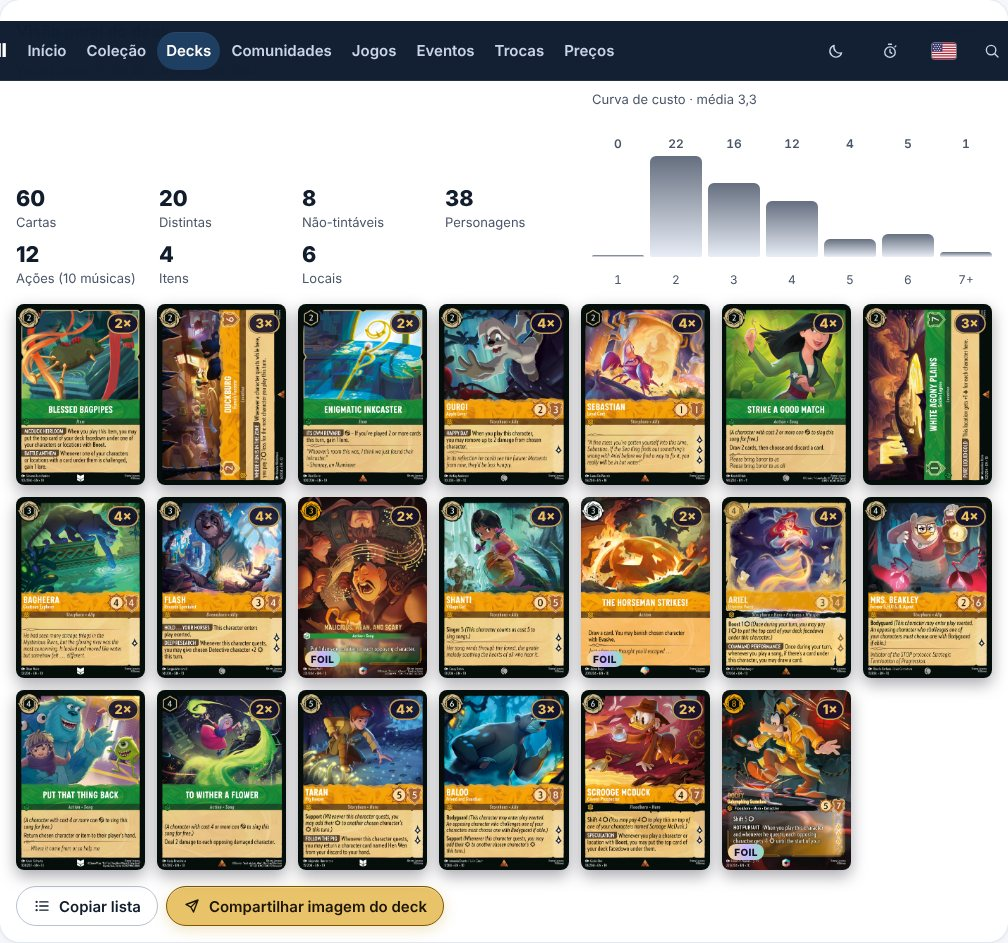
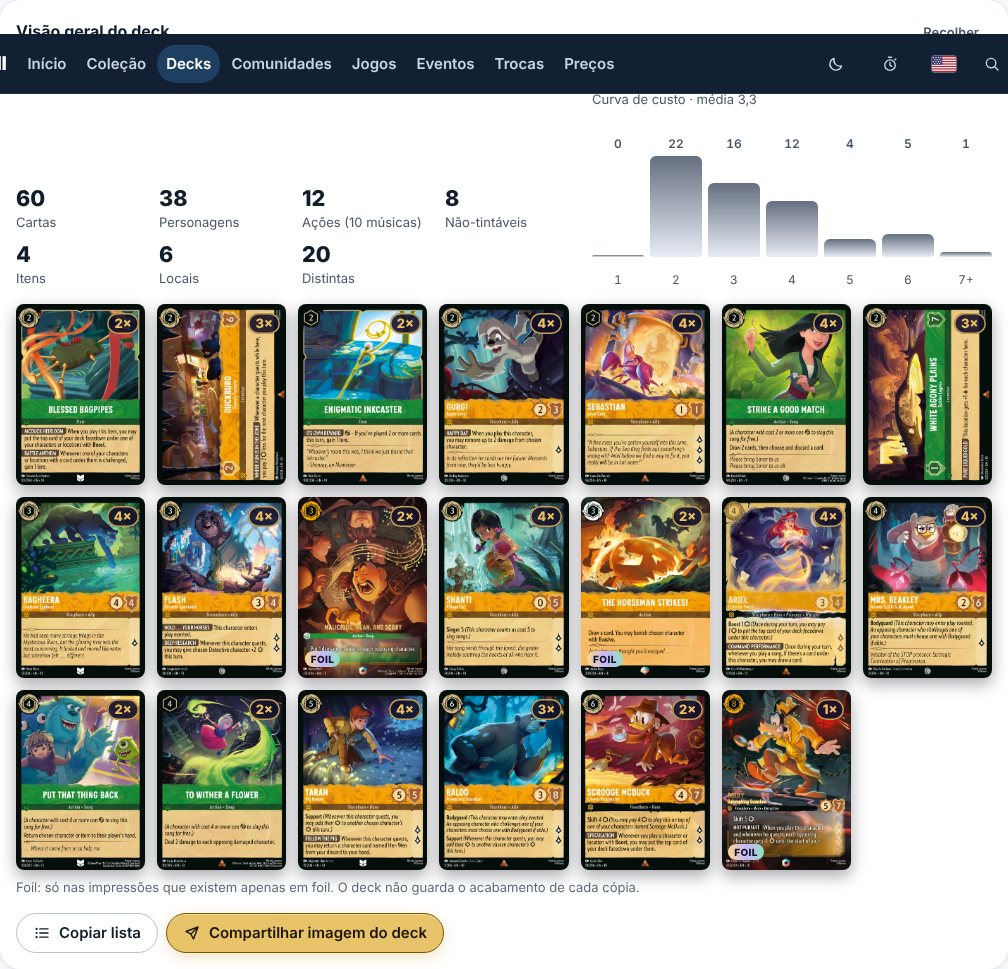
Visão geral: sem QR para o deck em destaque, cabeçalho compacto no celular, legenda do foil, divisão das imagens testada
- QR só para decks públicos listados (#deck-<id>); deck em destaque: sem QR, com o motivo (o perfil não tem endereço estável para ele); perfil sem âncora #deck-featured
- Celular: números em linhas curtas, os mais importantes primeiro; curva mais baixa; frase do dono numa linha
- Legenda do foil: só impressões que existem apenas em foil; o deck não guarda o acabamento
- Testes: divisão das imagens (todas as cartas, uma vez, equilibradas), barras fixas reais e fim da seção acima da barra de abas, tempo e memória (laboratório)
- Evidências: capturas da tela real do celular, todas as imagens de um deck grande, perfil com o deck destacado

Claude-Session: https://claude.ai/code/session_01ViNXWokZDypTVzRR5Y3foT

diff --git a/site/decks/index.html b/site/decks/index.html
@@ -362,8 +362,18 @@ textarea.paste { width: 100%; min-height: 200px; font: inherit; font-size: var(-
 .ov-page figcaption { display: flex; gap: var(--sp-2); flex-wrap: wrap; justify-content: center; }
 .ov-fmt button { flex: 1 1 0; min-width: 0; white-space: normal; line-height: 1.25; height: auto; min-height: 44px; padding-top: 6px; padding-bottom: 6px; }
 .ov-fmt small { display: block; opacity: .7; font-weight: 500; }
-@media (max-width: 760px) { .ov-head { grid-template-columns: 1fr; } }
-@media (max-width: 420px) { .ov-stats { grid-template-columns: repeat(2, minmax(0, 1fr)); } .ov-grid { grid-template-columns: repeat(3, minmax(0, 1fr)); gap: var(--sp-2); } .ov-card .ov-q { font-size: 11px; padding: 0 5px; } .ov-actions .btn { flex: 1 1 100%; } }
+.ov-note { margin: var(--sp-2) 0 0; }
+@media (max-width: 760px) { .ov-head { grid-template-columns: 1fr; gap: var(--sp-3); } }
+/* phone: the numbers as one wrapped line each ("60 Cartas"), most important first, and a lower curve */
+@media (max-width: 640px) {
+  .ov-stats { display: flex; flex-wrap: wrap; gap: 4px var(--sp-3); }
+  .ov-stat { display: inline-flex; align-items: baseline; gap: 5px; }
+  .ov-stat b { font-size: 1.05rem; }
+  .ov-curve .bars { height: 92px; padding-top: 14px; }
+  .ov-curve .bars-x { margin-top: 2px; }
+  .ov-own { margin-bottom: var(--sp-2); }
+}
+@media (max-width: 420px) { .ov-grid { grid-template-columns: repeat(3, minmax(0, 1fr)); gap: var(--sp-2); } .ov-card .ov-q { font-size: 11px; padding: 0 5px; } .ov-actions .btn { flex: 1 1 100%; } }
 </style>
 
 <main class="page" id="page">
@@ -451,13 +461,16 @@ const CARD_INDEX = {"generated_at":"2026-10-19T12:50:22Z","sets":[{"code":"D100"
     "{n} cards recognised": "{n} cartas reconhecidas", "Not recognised: {l}": "Não reconhecidas: {l}", "Import deck": "Importar deck", "Imported deck": "Deck importado",
     "Deck overview": "Visão geral do deck", "Hide": "Recolher", "Show": "Mostrar", "Distinct": "Distintas", "Non-inkable": "Não-tintáveis", "Actions ({n} songs)": "Ações ({n} músicas)", "Items": "Itens", "Locations": "Locais",
     "Cost curve · average {a}": "Curva de custo · média {a}", "See the whole deck (+{n})": "Ver deck completo (+{n})", "{n} cards outside the catalog are not shown.": "{n} cartas fora do catálogo não aparecem aqui.",
-    "Share deck image": "Compartilhar imagem do deck", "You own {a} of {b} cards of this deck.": "Você possui {a} de {b} cartas deste deck.", "Only you see this; it never goes in the image.": "Só você vê isto; nunca vai para a imagem.",
+    "Share deck image": "Compartilhar imagem do deck",
     "This printing exists only in foil": "Esta impressão só existe em foil", "foil": "foil", "Couldn't copy. Try again.": "Não deu para copiar. Tente de novo.", "Average cost": "Custo médio",
     "See this deck on the public Inkwell profile": "Veja este deck no perfil público do Inkwell", "Built on Inkwell": "Montado no Inkwell", "image {a} of {b}": "imagem {a} de {b}", "Image format": "Formato da imagem",
     "Vertical — Instagram": "Vertical — Instagram", "Horizontal — groups and Discord": "Horizontal — grupos e Discord", "Checking your public profile…": "Conferindo seu perfil público…", "Creating the image…": "Criando a imagem…",
     "The image shows only the deck: never your collection, prices or account.": "A imagem mostra só o deck: nunca sua coleção, preços ou conta.",
     "The QR code opens this deck on your public profile (@{h}).": "O QR code abre este deck no seu perfil público (@{h}).", "No QR code: your public profile could not be checked now.": "Sem QR code: não deu para conferir seu perfil público agora.",
-    "No QR code: this deck is not on your public profile. Make the profile public and the deck public (or featured) to add it.": "Sem QR code: este deck não aparece no seu perfil público. Para incluir, deixe o perfil público e o deck público (ou em destaque).",
+    "No QR code: this deck is not on your public profile. Make the profile public and the deck public to add it.": "Sem QR code: este deck não aparece no seu perfil público. Para incluir, deixe o perfil e o deck públicos.",
+    "No QR code for the featured deck yet: the profile has no address for it that stays right if the featured deck changes.": "Sem QR code para o deck em destaque, por enquanto: o perfil ainda não tem um endereço para ele que continue certo se o destaque mudar.",
+    "Foil: only on printings that exist only in foil. A deck does not record the finish of each copy.": "Foil: só nas impressões que existem apenas em foil. O deck não guarda o acabamento de cada cópia.",
+    "You own {a} of {b} cards of this deck · only you see this.": "Você possui {a} de {b} cartas deste deck · só você vê isto.",
     "The deck has many different cards: {n} images.": "O deck tem muitas cartas diferentes: {n} imagens.", "Image of the deck {d}": "Imagem do deck {d}", "Download": "Baixar", "Share": "Compartilhar", "Couldn't create the image. Try again.": "Não deu para criar a imagem. Tente de novo.",
     "Rename and format": "Nome, formato e tintas", "Copy list": "Copiar lista", "List copied": "Lista copiada", "Open in the deck builder": "Abrir no montador antigo",
     "Planner and advisor": "Consultor e plano de compras", "Delete deck": "Apagar deck", "Tap again to delete": "Toque de novo para apagar", "Deck deleted": "Deck apagado",
@@ -1024,7 +1037,8 @@ const CARD_INDEX = {"generated_at":"2026-10-19T12:50:22Z","sets":[{"code":"D100"
   // Everything here reads only the deck's list (m.known). "You own X of Y" is a line for the signed-in owner, on this
   // page only: the image is drawn from deckImageData(), which carries no collection data at all (nor who owns what).
   // The QR code goes to the deck on the owner's public profile, and only when that profile really shows this deck
-  // (public profile with an address, and the deck listed there or featured); never to a private deck or to an editor.
+  // (public profile with an address, and the deck in its list of public decks, by id); never to a private deck, to
+  // the featured deck (no stable address yet) or to an editor.
   const OV_KEY = "inkwell-deck-overview", OV_PREVIEW = 12, ovFull = new Set();
   const ovOpen = () => { try { return localStorage.getItem(OV_KEY) !== "closed"; } catch { return true; } };
   function deckSummary(m) {
@@ -1060,7 +1074,7 @@ const CARD_INDEX = {"generated_at":"2026-10-19T12:50:22Z","sets":[{"code":"D100"
     if (!me || !prof() || prof().shared) return "";
     const by = new Map(); for (const e of m.known) by.set(e.c.key, { c: e.c, q: (by.get(e.c.key)?.q || 0) + e.q });
     let have = 0, need = 0; for (const { c, q } of by.values()) { need += q; have += Math.min(q, ownedMine(c)); }
-    return `<p class="small ov-own" data-testid="ov-owned">${esc(Tx("You own {a} of {b} cards of this deck.", { a: have, b: need }))} <span class="faint">${esc(Tx("Only you see this; it never goes in the image."))}</span></p>`;
+    return `<p class="small ov-own" data-testid="ov-owned">${esc(Tx("You own {a} of {b} cards of this deck · only you see this.", { a: have, b: need }))}</p>`;
   }
   function overview(d, m) {
     if (!m.known.length) return "";
@@ -1073,14 +1087,15 @@ const CARD_INDEX = {"generated_at":"2026-10-19T12:50:22Z","sets":[{"code":"D100"
       <div id="ovBody"${open ? "" : " hidden"}>
         ${ownerLine(m)}
         <div class="ov-head">
-          <div class="ov-stats">${stat(s.total, Tx("Cards"), "total")}${stat(s.distinct, Tx("Distinct"), "distinct")}${stat(s.nonInk, Tx("Non-inkable"), "noink")}${stat(s.char, Tx("Characters"), "char")}
-            ${stat(s.action, s.song ? Tx("Actions ({n} songs)", { n: s.song }) : Tx("Actions"), "action")}${stat(s.item, Tx("Items"), "item")}${stat(s.location, Tx("Locations"), "location")}</div>
+          <div class="ov-stats">${stat(s.total, Tx("Cards"), "total")}${stat(s.char, Tx("Characters"), "char")}${stat(s.action, s.song ? Tx("Actions ({n} songs)", { n: s.song }) : Tx("Actions"), "action")}${stat(s.nonInk, Tx("Non-inkable"), "noink")}
+            ${stat(s.item, Tx("Items"), "item")}${stat(s.location, Tx("Locations"), "location")}${stat(s.distinct, Tx("Distinct"), "distinct")}</div>
           <figure class="ov-curve" data-testid="ov-curve"><figcaption class="small muted">${esc(Tx("Cost curve · average {a}", { a: s.avg.toLocaleString(LOC, { maximumFractionDigits: 1 }) }))}</figcaption>
             <div class="bars" style="--n:7">${s.curve.map((v) => `<div><b>${v}</b><i style="--v:${Math.round((v / top) * 100)}%"></i></div>`).join("")}</div>
             <div class="bars-x" style="--n:7">${[1, 2, 3, 4, 5, 6, "7+"].map((x) => `<span>${x}</span>`).join("")}</div></figure>
         </div>
         <div class="ov-grid" id="ovGrid" data-testid="ov-grid">${(compact ? rows.slice(0, OV_PREVIEW) : rows).map(ovTile).join("")}</div>
         ${compact ? `<button type="button" class="btn block" id="ovAll" data-testid="ov-all">${esc(Tx("See the whole deck (+{n})", { n: rows.length - OV_PREVIEW }))}</button>` : ""}
+        ${rows.some((e) => ALWAYS_FOIL.has(e.c.rarity)) ? `<p class="small faint ov-note" data-testid="ov-foil-note">${esc(Tx("Foil: only on printings that exist only in foil. A deck does not record the finish of each copy."))}</p>` : ""}
         ${unknown ? `<p class="small faint">${esc(Tx("{n} cards outside the catalog are not shown.", { n: unknown }))}</p>` : ""}
         <div class="ov-actions"><button type="button" class="btn" id="ovCopy" data-testid="ov-copy"><i class="ic i-list"></i>${Tx("Copy list")}</button>
           <button type="button" class="btn primary" id="ovImg" data-testid="ov-image-open"><i class="ic i-send"></i>${Tx("Share deck image")}</button></div>
@@ -1117,8 +1132,9 @@ const CARD_INDEX = {"generated_at":"2026-10-19T12:50:22Z","sets":[{"code":"D100"
       if (!pp?.handle) return { why: "private" };
       let anchor = null;
       if ((pp.public_decks || []).some((x) => x && x.id === d.id && sameCards(x.cards, d.cards))) anchor = "deck-" + d.id;
-      else if (mp.featured_deck === d.id && pp.deck && sameCards(pp.deck.cards, d.cards)) anchor = "deck-featured";
-      if (!anchor) return { why: "private" };
+      // the featured deck has no address of its own on the profile (a QR code to "the featured deck" would open
+      // another deck once the featured one changes): no QR code for it until decks have their own address
+      if (!anchor) return { why: mp.featured_deck === d.id ? "featured" : "private" };
       return { url: new URL(`../perfil/?u=${encodeURIComponent(pp.handle)}#${encodeURIComponent(anchor)}`, location.href).href, handle: pp.handle };
     } catch { return { why: "offline" }; }
   }
@@ -1261,7 +1277,7 @@ const CARD_INDEX = {"generated_at":"2026-10-19T12:50:22Z","sets":[{"code":"D100"
         drawDots(ctx, data.inks, px + 32 + ctx.measureText(nm).width + 18, py + 30 + 30, 15);
         ctx.fillStyle = IW.muted; ctx.font = `600 18px ${FB}`; ctx.fillText(`${data.format} · ${Tx("{n} cards", { n: st.total })}${pageNote}`, px + 32, py + 30 + 46 + 30);
         const cells = [[st.total, L.cards], [st.distinct, L.distinct], [st.nonInk, L.noink], [st.char, L.char], [st.action, L.action], [st.item, L.item], [st.location, L.location]];
-        const wt = [1, 1, 1.2, 1.2, 1.5, 0.85, 0.85], unit = leftW / wt.reduce((t, x) => t + x, 0);   // room for "Ações (10 músicas)"
+        const wt = [1, 1, 1.2, 1.2, st.song ? 1.5 : 1, 0.85, 0.85], unit = leftW / wt.reduce((t, x) => t + x, 0);   // room for "Ações (10 músicas)"
         let sx = px + 32; cells.forEach(([v, l], i) => { drawStat(ctx, v, l, sx, py + 118, wt[i] * unit, 32, 16); sx += wt[i] * unit; });
         const cx = px + 32 + leftW + 40; ctx.fillStyle = IW.muted; ctx.font = `600 15px ${FB}`; ctx.fillText(Tx("Cost curve · average {a}", { a: st.avg.toLocaleString(LOC) }), cx, py + 36);
         drawCurve(ctx, data.curve, cx, py + 48, curveW, ph - 48 - 26, 15);
@@ -1303,7 +1319,7 @@ const CARD_INDEX = {"generated_at":"2026-10-19T12:50:22Z","sets":[{"code":"D100"
       out.push(blob);
     }
     for (const im of imgs.values()) if (im) im.src = "";
-    return { blobs: out, w: W, h: H, ms: Math.round(performance.now() - t0), qr: qrOk };
+    return { blobs: out, sizes, w: W, h: H, ms: Math.round(performance.now() - t0), qr: qrOk };
   }
   const slug = (s) => String(s || "deck").normalize("NFD").replace(/[̀-ͯ]/g, "").toLowerCase().replace(/[^a-z0-9]+/g, "-").replace(/^-|-$/g, "").slice(0, 40) || "deck";
   function openDeckImage(d, m, from) {
@@ -1328,7 +1344,8 @@ const CARD_INDEX = {"generated_at":"2026-10-19T12:50:22Z","sets":[{"code":"D100"
           link = await publicDeckLink(d);
           $("ovQr").textContent = link.url ? Tx("The QR code opens this deck on your public profile (@{h}).", { h: link.handle })
             : link.why === "offline" ? Tx("No QR code: your public profile could not be checked now.")
-            : Tx("No QR code: this deck is not on your public profile. Make the profile public and the deck public (or featured) to add it.");
+            : link.why === "featured" ? Tx("No QR code for the featured deck yet: the profile has no address for it that stays right if the featured deck changes.")
+            : Tx("No QR code: this deck is not on your public profile. Make the profile public and the deck public to add it.");
           $("ovQr").dataset.qr = link.url ? "on" : "off";
         }
         const r = await drawDeckImages(deckImageData(d, m, link), fmt);
@@ -1336,7 +1353,7 @@ const CARD_INDEX = {"generated_at":"2026-10-19T12:50:22Z","sets":[{"code":"D100"
         free(); urls = r.blobs.map((b) => URL.createObjectURL(b));
         const name = (i) => `inkwell-${slug(d.name)}-${IMG_FMT[fmt].file}${r.blobs.length > 1 ? "-" + (i + 1) : ""}.png`;
         const canShare = (() => { try { return !!navigator.canShare?.({ files: [new File([r.blobs[0]], name(0), { type: "image/png" })] }); } catch { return false; } })();
-        out.dataset.ms = String(r.ms); out.dataset.pages = String(r.blobs.length); out.dataset.fmt = fmt;
+        out.dataset.ms = String(r.ms); out.dataset.pages = String(r.blobs.length); out.dataset.split = r.sizes.join(","); out.dataset.fmt = fmt;
         out.innerHTML = `${r.blobs.length > 1 ? `<p class="small" data-testid="ov-pages">${esc(Tx("The deck has many different cards: {n} images.", { n: r.blobs.length }))}</p>` : ""}
           ${urls.map((u, i) => `<figure class="ov-page ${fmt}">\u003Cimg src="${u}" width="${r.w}" height="${r.h}" alt="${esc(Tx("Image of the deck {d}", { d: d.name }) + (r.blobs.length > 1 ? " · " + Tx("image {a} of {b}", { a: i + 1, b: r.blobs.length }) : ""))}" data-testid="ov-png" data-nozoom>
             <figcaption><a class="btn" href="${u}" download="${esc(name(i))}" data-testid="ov-download"><i class="ic i-export"></i>${Tx("Download")}</a>${canShare ? `<button type="button" class="btn primary" data-share="${i}"><i class="ic i-send"></i>${Tx("Share")}</button>` : ""}</figcaption></figure>`).join("")}`;

diff --git a/src/site/decks/decks.template.html b/src/site/decks/decks.template.html
@@ -106,8 +106,18 @@ textarea.paste { width: 100%; min-height: 200px; font: inherit; font-size: var(-
 .ov-page figcaption { display: flex; gap: var(--sp-2); flex-wrap: wrap; justify-content: center; }
 .ov-fmt button { flex: 1 1 0; min-width: 0; white-space: normal; line-height: 1.25; height: auto; min-height: 44px; padding-top: 6px; padding-bottom: 6px; }
 .ov-fmt small { display: block; opacity: .7; font-weight: 500; }
-@media (max-width: 760px) { .ov-head { grid-template-columns: 1fr; } }
-@media (max-width: 420px) { .ov-stats { grid-template-columns: repeat(2, minmax(0, 1fr)); } .ov-grid { grid-template-columns: repeat(3, minmax(0, 1fr)); gap: var(--sp-2); } .ov-card .ov-q { font-size: 11px; padding: 0 5px; } .ov-actions .btn { flex: 1 1 100%; } }
+.ov-note { margin: var(--sp-2) 0 0; }
+@media (max-width: 760px) { .ov-head { grid-template-columns: 1fr; gap: var(--sp-3); } }
+/* phone: the numbers as one wrapped line each ("60 Cartas"), most important first, and a lower curve */
+@media (max-width: 640px) {
+  .ov-stats { display: flex; flex-wrap: wrap; gap: 4px var(--sp-3); }
+  .ov-stat { display: inline-flex; align-items: baseline; gap: 5px; }
+  .ov-stat b { font-size: 1.05rem; }
+  .ov-curve .bars { height: 92px; padding-top: 14px; }
+  .ov-curve .bars-x { margin-top: 2px; }
+  .ov-own { margin-bottom: var(--sp-2); }
+}
+@media (max-width: 420px) { .ov-grid { grid-template-columns: repeat(3, minmax(0, 1fr)); gap: var(--sp-2); } .ov-card .ov-q { font-size: 11px; padding: 0 5px; } .ov-actions .btn { flex: 1 1 100%; } }
 </style>
 
 <main class="page" id="page">
@@ -195,13 +205,16 @@ textarea.paste { width: 100%; min-height: 200px; font: inherit; font-size: var(-
     "{n} cards recognised": "{n} cartas reconhecidas", "Not recognised: {l}": "Não reconhecidas: {l}", "Import deck": "Importar deck", "Imported deck": "Deck importado",
     "Deck overview": "Visão geral do deck", "Hide": "Recolher", "Show": "Mostrar", "Distinct": "Distintas", "Non-inkable": "Não-tintáveis", "Actions ({n} songs)": "Ações ({n} músicas)", "Items": "Itens", "Locations": "Locais",
     "Cost curve · average {a}": "Curva de custo · média {a}", "See the whole deck (+{n})": "Ver deck completo (+{n})", "{n} cards outside the catalog are not shown.": "{n} cartas fora do catálogo não aparecem aqui.",
-    "Share deck image": "Compartilhar imagem do deck", "You own {a} of {b} cards of this deck.": "Você possui {a} de {b} cartas deste deck.", "Only you see this; it never goes in the image.": "Só você vê isto; nunca vai para a imagem.",
+    "Share deck image": "Compartilhar imagem do deck",
     "This printing exists only in foil": "Esta impressão só existe em foil", "foil": "foil", "Couldn't copy. Try again.": "Não deu para copiar. Tente de novo.", "Average cost": "Custo médio",
     "See this deck on the public Inkwell profile": "Veja este deck no perfil público do Inkwell", "Built on Inkwell": "Montado no Inkwell", "image {a} of {b}": "imagem {a} de {b}", "Image format": "Formato da imagem",
     "Vertical — Instagram": "Vertical — Instagram", "Horizontal — groups and Discord": "Horizontal — grupos e Discord", "Checking your public profile…": "Conferindo seu perfil público…", "Creating the image…": "Criando a imagem…",
     "The image shows only the deck: never your collection, prices or account.": "A imagem mostra só o deck: nunca sua coleção, preços ou conta.",
     "The QR code opens this deck on your public profile (@{h}).": "O QR code abre este deck no seu perfil público (@{h}).", "No QR code: your public profile could not be checked now.": "Sem QR code: não deu para conferir seu perfil público agora.",
-    "No QR code: this deck is not on your public profile. Make the profile public and the deck public (or featured) to add it.": "Sem QR code: este deck não aparece no seu perfil público. Para incluir, deixe o perfil público e o deck público (ou em destaque).",
+    "No QR code: this deck is not on your public profile. Make the profile public and the deck public to add it.": "Sem QR code: este deck não aparece no seu perfil público. Para incluir, deixe o perfil e o deck públicos.",
+    "No QR code for the featured deck yet: the profile has no address for it that stays right if the featured deck changes.": "Sem QR code para o deck em destaque, por enquanto: o perfil ainda não tem um endereço para ele que continue certo se o destaque mudar.",
+    "Foil: only on printings that exist only in foil. A deck does not record the finish of each copy.": "Foil: só nas impressões que existem apenas em foil. O deck não guarda o acabamento de cada cópia.",
+    "You own {a} of {b} cards of this deck · only you see this.": "Você possui {a} de {b} cartas deste deck · só você vê isto.",
     "The deck has many different cards: {n} images.": "O deck tem muitas cartas diferentes: {n} imagens.", "Image of the deck {d}": "Imagem do deck {d}", "Download": "Baixar", "Share": "Compartilhar", "Couldn't create the image. Try again.": "Não deu para criar a imagem. Tente de novo.",
     "Rename and format": "Nome, formato e tintas", "Copy list": "Copiar lista", "List copied": "Lista copiada", "Open in the deck builder": "Abrir no montador antigo",
     "Planner and advisor": "Consultor e plano de compras", "Delete deck": "Apagar deck", "Tap again to delete": "Toque de novo para apagar", "Deck deleted": "Deck apagado",
@@ -703,7 +716,8 @@ textarea.paste { width: 100%; min-height: 200px; font: inherit; font-size: var(-
   // Everything here reads only the deck's list (m.known). "You own X of Y" is a line for the signed-in owner, on this
   // page only: the image is drawn from deckImageData(), which carries no collection data at all (nor who owns what).
   // The QR code goes to the deck on the owner's public profile, and only when that profile really shows this deck
-  // (public profile with an address, and the deck listed there or featured); never to a private deck or to an editor.
+  // (public profile with an address, and the deck in its list of public decks, by id); never to a private deck, to
+  // the featured deck (no stable address yet) or to an editor.
   const OV_KEY = "inkwell-deck-overview", OV_PREVIEW = 12, ovFull = new Set();
   const ovOpen = () => { try { return localStorage.getItem(OV_KEY) !== "closed"; } catch { return true; } };
   function deckSummary(m) {
@@ -739,7 +753,7 @@ textarea.paste { width: 100%; min-height: 200px; font: inherit; font-size: var(-
     if (!me || !prof() || prof().shared) return "";
     const by = new Map(); for (const e of m.known) by.set(e.c.key, { c: e.c, q: (by.get(e.c.key)?.q || 0) + e.q });
     let have = 0, need = 0; for (const { c, q } of by.values()) { need += q; have += Math.min(q, ownedMine(c)); }
-    return `<p class="small ov-own" data-testid="ov-owned">${esc(Tx("You own {a} of {b} cards of this deck.", { a: have, b: need }))} <span class="faint">${esc(Tx("Only you see this; it never goes in the image."))}</span></p>`;
+    return `<p class="small ov-own" data-testid="ov-owned">${esc(Tx("You own {a} of {b} cards of this deck · only you see this.", { a: have, b: need }))}</p>`;
   }
   function overview(d, m) {
     if (!m.known.length) return "";
@@ -752,14 +766,15 @@ textarea.paste { width: 100%; min-height: 200px; font: inherit; font-size: var(-
       <div id="ovBody"${open ? "" : " hidden"}>
         ${ownerLine(m)}
         <div class="ov-head">
-          <div class="ov-stats">${stat(s.total, Tx("Cards"), "total")}${stat(s.distinct, Tx("Distinct"), "distinct")}${stat(s.nonInk, Tx("Non-inkable"), "noink")}${stat(s.char, Tx("Characters"), "char")}
-            ${stat(s.action, s.song ? Tx("Actions ({n} songs)", { n: s.song }) : Tx("Actions"), "action")}${stat(s.item, Tx("Items"), "item")}${stat(s.location, Tx("Locations"), "location")}</div>
+          <div class="ov-stats">${stat(s.total, Tx("Cards"), "total")}${stat(s.char, Tx("Characters"), "char")}${stat(s.action, s.song ? Tx("Actions ({n} songs)", { n: s.song }) : Tx("Actions"), "action")}${stat(s.nonInk, Tx("Non-inkable"), "noink")}
+            ${stat(s.item, Tx("Items"), "item")}${stat(s.location, Tx("Locations"), "location")}${stat(s.distinct, Tx("Distinct"), "distinct")}</div>
           <figure class="ov-curve" data-testid="ov-curve"><figcaption class="small muted">${esc(Tx("Cost curve · average {a}", { a: s.avg.toLocaleString(LOC, { maximumFractionDigits: 1 }) }))}</figcaption>
             <div class="bars" style="--n:7">${s.curve.map((v) => `<div><b>${v}</b><i style="--v:${Math.round((v / top) * 100)}%"></i></div>`).join("")}</div>
             <div class="bars-x" style="--n:7">${[1, 2, 3, 4, 5, 6, "7+"].map((x) => `<span>${x}</span>`).join("")}</div></figure>
         </div>
         <div class="ov-grid" id="ovGrid" data-testid="ov-grid">${(compact ? rows.slice(0, OV_PREVIEW) : rows).map(ovTile).join("")}</div>
         ${compact ? `<button type="button" class="btn block" id="ovAll" data-testid="ov-all">${esc(Tx("See the whole deck (+{n})", { n: rows.length - OV_PREVIEW }))}</button>` : ""}
+        ${rows.some((e) => ALWAYS_FOIL.has(e.c.rarity)) ? `<p class="small faint ov-note" data-testid="ov-foil-note">${esc(Tx("Foil: only on printings that exist only in foil. A deck does not record the finish of each copy."))}</p>` : ""}
         ${unknown ? `<p class="small faint">${esc(Tx("{n} cards outside the catalog are not shown.", { n: unknown }))}</p>` : ""}
         <div class="ov-actions"><button type="button" class="btn" id="ovCopy" data-testid="ov-copy"><i class="ic i-list"></i>${Tx("Copy list")}</button>
           <button type="button" class="btn primary" id="ovImg" data-testid="ov-image-open"><i class="ic i-send"></i>${Tx("Share deck image")}</button></div>
@@ -796,8 +811,9 @@ textarea.paste { width: 100%; min-height: 200px; font: inherit; font-size: var(-
       if (!pp?.handle) return { why: "private" };
       let anchor = null;
       if ((pp.public_decks || []).some((x) => x && x.id === d.id && sameCards(x.cards, d.cards))) anchor = "deck-" + d.id;
-      else if (mp.featured_deck === d.id && pp.deck && sameCards(pp.deck.cards, d.cards)) anchor = "deck-featured";
-      if (!anchor) return { why: "private" };
+      // the featured deck has no address of its own on the profile (a QR code to "the featured deck" would open
+      // another deck once the featured one changes): no QR code for it until decks have their own address
+      if (!anchor) return { why: mp.featured_deck === d.id ? "featured" : "private" };
       return { url: new URL(`../perfil/?u=${encodeURIComponent(pp.handle)}#${encodeURIComponent(anchor)}`, location.href).href, handle: pp.handle };
     } catch { return { why: "offline" }; }
   }
@@ -940,7 +956,7 @@ textarea.paste { width: 100%; min-height: 200px; font: inherit; font-size: var(-
         drawDots(ctx, data.inks, px + 32 + ctx.measureText(nm).width + 18, py + 30 + 30, 15);
         ctx.fillStyle = IW.muted; ctx.font = `600 18px ${FB}`; ctx.fillText(`${data.format} · ${Tx("{n} cards", { n: st.total })}${pageNote}`, px + 32, py + 30 + 46 + 30);
         const cells = [[st.total, L.cards], [st.distinct, L.distinct], [st.nonInk, L.noink], [st.char, L.char], [st.action, L.action], [st.item, L.item], [st.location, L.location]];
-        const wt = [1, 1, 1.2, 1.2, 1.5, 0.85, 0.85], unit = leftW / wt.reduce((t, x) => t + x, 0);   // room for "Ações (10 músicas)"
+        const wt = [1, 1, 1.2, 1.2, st.song ? 1.5 : 1, 0.85, 0.85], unit = leftW / wt.reduce((t, x) => t + x, 0);   // room for "Ações (10 músicas)"
         let sx = px + 32; cells.forEach(([v, l], i) => { drawStat(ctx, v, l, sx, py + 118, wt[i] * unit, 32, 16); sx += wt[i] * unit; });
         const cx = px + 32 + leftW + 40; ctx.fillStyle = IW.muted; ctx.font = `600 15px ${FB}`; ctx.fillText(Tx("Cost curve · average {a}", { a: st.avg.toLocaleString(LOC) }), cx, py + 36);
         drawCurve(ctx, data.curve, cx, py + 48, curveW, ph - 48 - 26, 15);
@@ -982,7 +998,7 @@ textarea.paste { width: 100%; min-height: 200px; font: inherit; font-size: var(-
       out.push(blob);
     }
     for (const im of imgs.values()) if (im) im.src = "";
-    return { blobs: out, w: W, h: H, ms: Math.round(performance.now() - t0), qr: qrOk };
+    return { blobs: out, sizes, w: W, h: H, ms: Math.round(performance.now() - t0), qr: qrOk };
   }
   const slug = (s) => String(s || "deck").normalize("NFD").replace(/[̀-ͯ]/g, "").toLowerCase().replace(/[^a-z0-9]+/g, "-").replace(/^-|-$/g, "").slice(0, 40) || "deck";
   function openDeckImage(d, m, from) {
@@ -1007,7 +1023,8 @@ textarea.paste { width: 100%; min-height: 200px; font: inherit; font-size: var(-
           link = await publicDeckLink(d);
           $("ovQr").textContent = link.url ? Tx("The QR code opens this deck on your public profile (@{h}).", { h: link.handle })
             : link.why === "offline" ? Tx("No QR code: your public profile could not be checked now.")
-            : Tx("No QR code: this deck is not on your public profile. Make the profile public and the deck public (or featured) to add it.");
+            : link.why === "featured" ? Tx("No QR code for the featured deck yet: the profile has no address for it that stays right if the featured deck changes.")
+            : Tx("No QR code: this deck is not on your public profile. Make the profile public and the deck public to add it.");
           $("ovQr").dataset.qr = link.url ? "on" : "off";
         }
         const r = await drawDeckImages(deckImageData(d, m, link), fmt);
@@ -1015,7 +1032,7 @@ textarea.paste { width: 100%; min-height: 200px; font: inherit; font-size: var(-
         free(); urls = r.blobs.map((b) => URL.createObjectURL(b));
         const name = (i) => `inkwell-${slug(d.name)}-${IMG_FMT[fmt].file}${r.blobs.length > 1 ? "-" + (i + 1) : ""}.png`;
         const canShare = (() => { try { return !!navigator.canShare?.({ files: [new File([r.blobs[0]], name(0), { type: "image/png" })] }); } catch { return false; } })();
-        out.dataset.ms = String(r.ms); out.dataset.pages = String(r.blobs.length); out.dataset.fmt = fmt;
+        out.dataset.ms = String(r.ms); out.dataset.pages = String(r.blobs.length); out.dataset.split = r.sizes.join(","); out.dataset.fmt = fmt;
         out.innerHTML = `${r.blobs.length > 1 ? `<p class="small" data-testid="ov-pages">${esc(Tx("The deck has many different cards: {n} images.", { n: r.blobs.length }))}</p>` : ""}
           ${urls.map((u, i) => `<figure class="ov-page ${fmt}"><img src="${u}" width="${r.w}" height="${r.h}" alt="${esc(Tx("Image of the deck {d}", { d: d.name }) + (r.blobs.length > 1 ? " · " + Tx("image {a} of {b}", { a: i + 1, b: r.blobs.length }) : ""))}" data-testid="ov-png" data-nozoom>
             <figcaption><a class="btn" href="${u}" download="${esc(name(i))}" data-testid="ov-download"><i class="ic i-export"></i>${Tx("Download")}</a>${canShare ? `<button type="button" class="btn primary" data-share="${i}"><i class="ic i-send"></i>${Tx("Share")}</button>` : ""}</figcaption></figure>`).join("")}`;

diff --git a/site/perfil/index.html b/site/perfil/index.html
@@ -729,15 +729,16 @@ const CARD_INDEX = {"generated_at":"2026-10-19T12:50:22Z","sets":[{"code":"D100"
   const L = (p, t) => (p?.mock && lang === "en" && MOCK_EN[t]) || t || "";
   const ago = (d) => { const m = (Date.now() - Date.parse(d)) / 60000; if (!(m >= 0)) return ""; if (m < 60) return Tx("{n} min ago", { n: Math.max(1, Math.round(m)) }); if (m < 1440) return Tx("{n} h ago", { n: Math.round(m / 60) }); const dd = Math.round(m / 1440); return dd === 1 ? Tx("yesterday") : Tx("{n} days ago", { n: dd }); };
   const miniAv = (avatar, name, cls = "sm") => `<span class="mi-av ${cls}" style="${artStyle(avatar)}" role="img" aria-label="${esc(name || "")}"></span>`;
-  // anchor: #deck-<id> for a public deck, #deck-featured for the featured one (the QR code of a deck image, Decks > Visão geral)
-  function deckView(p, deck, label = "Featured deck", tid = "featured-deck", anchor = "deck-featured") {
+  // anchor: #deck-<id> for a public deck (the QR code of a deck image, Decks > Visão geral). The featured deck has
+  // none: its id is not on the public profile, and a link to "the featured deck" would open another one after a change.
+  function deckView(p, deck, label = "Featured deck", tid = "featured-deck", anchor = "") {
     const cards = Object.entries(deck.cards || {}).filter(([id, n]) => BY.has(id) && n > 0).map(([id, n]) => ({ c: BY.get(id), n }));
     const total = cards.reduce((s, x) => s + x.n, 0), curve = Array(8).fill(0);
     for (const x of cards) curve[Math.min(7, +x.c.cost || 0)] += x.n;
     const max = Math.max(1, ...curve.slice(1));
     const key = cards.slice().sort((a, b) => b.n - a.n || (+b.c.cost || 0) - (+a.c.cost || 0)).slice(0, 6);
     const list = cards.slice().sort((a, b) => (+a.c.cost || 0) - (+b.c.cost || 0) || a.c.name.localeCompare(b.c.name));
-    return `<section class="card mi-sec mi-deck" data-testid="${tid}" id="${esc(anchor)}" tabindex="-1"><div class="mi-label">${Tx(label)}</div>
+    return `<section class="card mi-sec mi-deck" data-testid="${tid}"${anchor ? ` id="${esc(anchor)}" tabindex="-1"` : ""}><div class="mi-label">${Tx(label)}</div>
       <div class="row between" style="margin:var(--sp-2) 0 var(--sp-3);gap:var(--sp-2);flex-wrap:wrap"><b style="font-size:var(--fs-h3)">${esc(L(p, deck.name))}</b>
         <span class="small muted">${(deck.colors || []).map((i) => inkName(i)).join(" / ")} · ${esc(deck.format === "infinity" ? "Infinity" : "Core")} · ${Tx("{n} cards", { n: total })}</span></div>
       <div class="mi-key">${key.map((x) => `<figure>${thumb(x.c)}<figcaption>${x.n}× ${esc(split(x.c.name)[0])}</figcaption></figure>`).join("")}</div>

diff --git a/src/site/perfil/perfil.template.html b/src/site/perfil/perfil.template.html
@@ -315,15 +315,16 @@ const CARD_INDEX = /*@CARD_INDEX@*/;
   const L = (p, t) => (p?.mock && lang === "en" && MOCK_EN[t]) || t || "";
   const ago = (d) => { const m = (Date.now() - Date.parse(d)) / 60000; if (!(m >= 0)) return ""; if (m < 60) return Tx("{n} min ago", { n: Math.max(1, Math.round(m)) }); if (m < 1440) return Tx("{n} h ago", { n: Math.round(m / 60) }); const dd = Math.round(m / 1440); return dd === 1 ? Tx("yesterday") : Tx("{n} days ago", { n: dd }); };
   const miniAv = (avatar, name, cls = "sm") => `<span class="mi-av ${cls}" style="${artStyle(avatar)}" role="img" aria-label="${esc(name || "")}"></span>`;
-  // anchor: #deck-<id> for a public deck, #deck-featured for the featured one (the QR code of a deck image, Decks > Visão geral)
-  function deckView(p, deck, label = "Featured deck", tid = "featured-deck", anchor = "deck-featured") {
+  // anchor: #deck-<id> for a public deck (the QR code of a deck image, Decks > Visão geral). The featured deck has
+  // none: its id is not on the public profile, and a link to "the featured deck" would open another one after a change.
+  function deckView(p, deck, label = "Featured deck", tid = "featured-deck", anchor = "") {
     const cards = Object.entries(deck.cards || {}).filter(([id, n]) => BY.has(id) && n > 0).map(([id, n]) => ({ c: BY.get(id), n }));
     const total = cards.reduce((s, x) => s + x.n, 0), curve = Array(8).fill(0);
     for (const x of cards) curve[Math.min(7, +x.c.cost || 0)] += x.n;
     const max = Math.max(1, ...curve.slice(1));
     const key = cards.slice().sort((a, b) => b.n - a.n || (+b.c.cost || 0) - (+a.c.cost || 0)).slice(0, 6);
     const list = cards.slice().sort((a, b) => (+a.c.cost || 0) - (+b.c.cost || 0) || a.c.name.localeCompare(b.c.name));
-    return `<section class="card mi-sec mi-deck" data-testid="${tid}" id="${esc(anchor)}" tabindex="-1"><div class="mi-label">${Tx(label)}</div>
+    return `<section class="card mi-sec mi-deck" data-testid="${tid}"${anchor ? ` id="${esc(anchor)}" tabindex="-1"` : ""}><div class="mi-label">${Tx(label)}</div>
       <div class="row between" style="margin:var(--sp-2) 0 var(--sp-3);gap:var(--sp-2);flex-wrap:wrap"><b style="font-size:var(--fs-h3)">${esc(L(p, deck.name))}</b>
         <span class="small muted">${(deck.colors || []).map((i) => inkName(i)).join(" / ")} · ${esc(deck.format === "infinity" ? "Infinity" : "Core")} · ${Tx("{n} cards", { n: total })}</span></div>
       <div class="mi-key">${key.map((x) => `<figure>${thumb(x.c)}<figcaption>${x.n}× ${esc(split(x.c.name)[0])}</figcaption></figure>`).join("")}</div>

diff --git a/docs/evidencias/deck-overview/README.md b/docs/evidencias/deck-overview/README.md
@@ -2,7 +2,11 @@
 
 Geradas por `OV_EVIDENCE=1 npx playwright test tools/overview.spec.mjs` (Chromium, servidor local, catálogo e artes reais, Supabase falso).
 
-- `vertical-1080x1350`, `horizontal-1920x1080`, `muitas-cartas-*`, `arte-faltando-vertical`: as imagens que o botão **Baixar** entrega. O site gera **PNG**; aqui estão em JPEG só para o repositório ficar leve. Os testes conferem o PNG baixado (assinatura, IHDR com 1080×1350 / 1920×1080) e leem o QR de volta com jsQR.
-- `celular-*-previa`, `celular-390-folha`, `computador-1280`: a seção na página (tema claro do navegador de teste).
+- `vertical-1080x1350`, `horizontal-1920x1080`, `muitas-cartas-v-{1,2,3}` e `muitas-cartas-h-{1,2}` (deck com 60 impressões diferentes), `arte-faltando-vertical`: as imagens que o botão **Baixar** entrega. O site gera **PNG**; aqui estão em JPEG só para o repositório ficar leve. Os testes conferem o PNG baixado (assinatura, IHDR com 1080×1350 / 1920×1080) e leem o QR de volta com jsQR.
+- `celular-{320,360,390,430}-tela-inicio` e `-tela-fim`: a tela do celular como ela é (captura da janela, com a barra do topo fixa e a barra de abas embaixo), no começo e no fim da seção.
+- `celular-390-folha`: a folha "Compartilhar imagem do deck". `computador-1280`: a seção no computador. `perfil-390-deck-destacado`: o perfil aberto pelo QR, com o deck destacado.
+- Capturas da página no tema claro do navegador de teste.
+
+Sobre as barras sobre as cartas nas capturas anteriores: eram artefato da captura de um elemento mais alto que a tela (o Playwright junta a página e as barras fixas aparecem no meio). Na tela real a barra do topo fica no topo, a de abas embaixo, e o fim da seção fica acima da barra de abas (há teste para isso).
 
 Não substitui o teste em iPhone e Android reais (a fazer pelo Luís).
